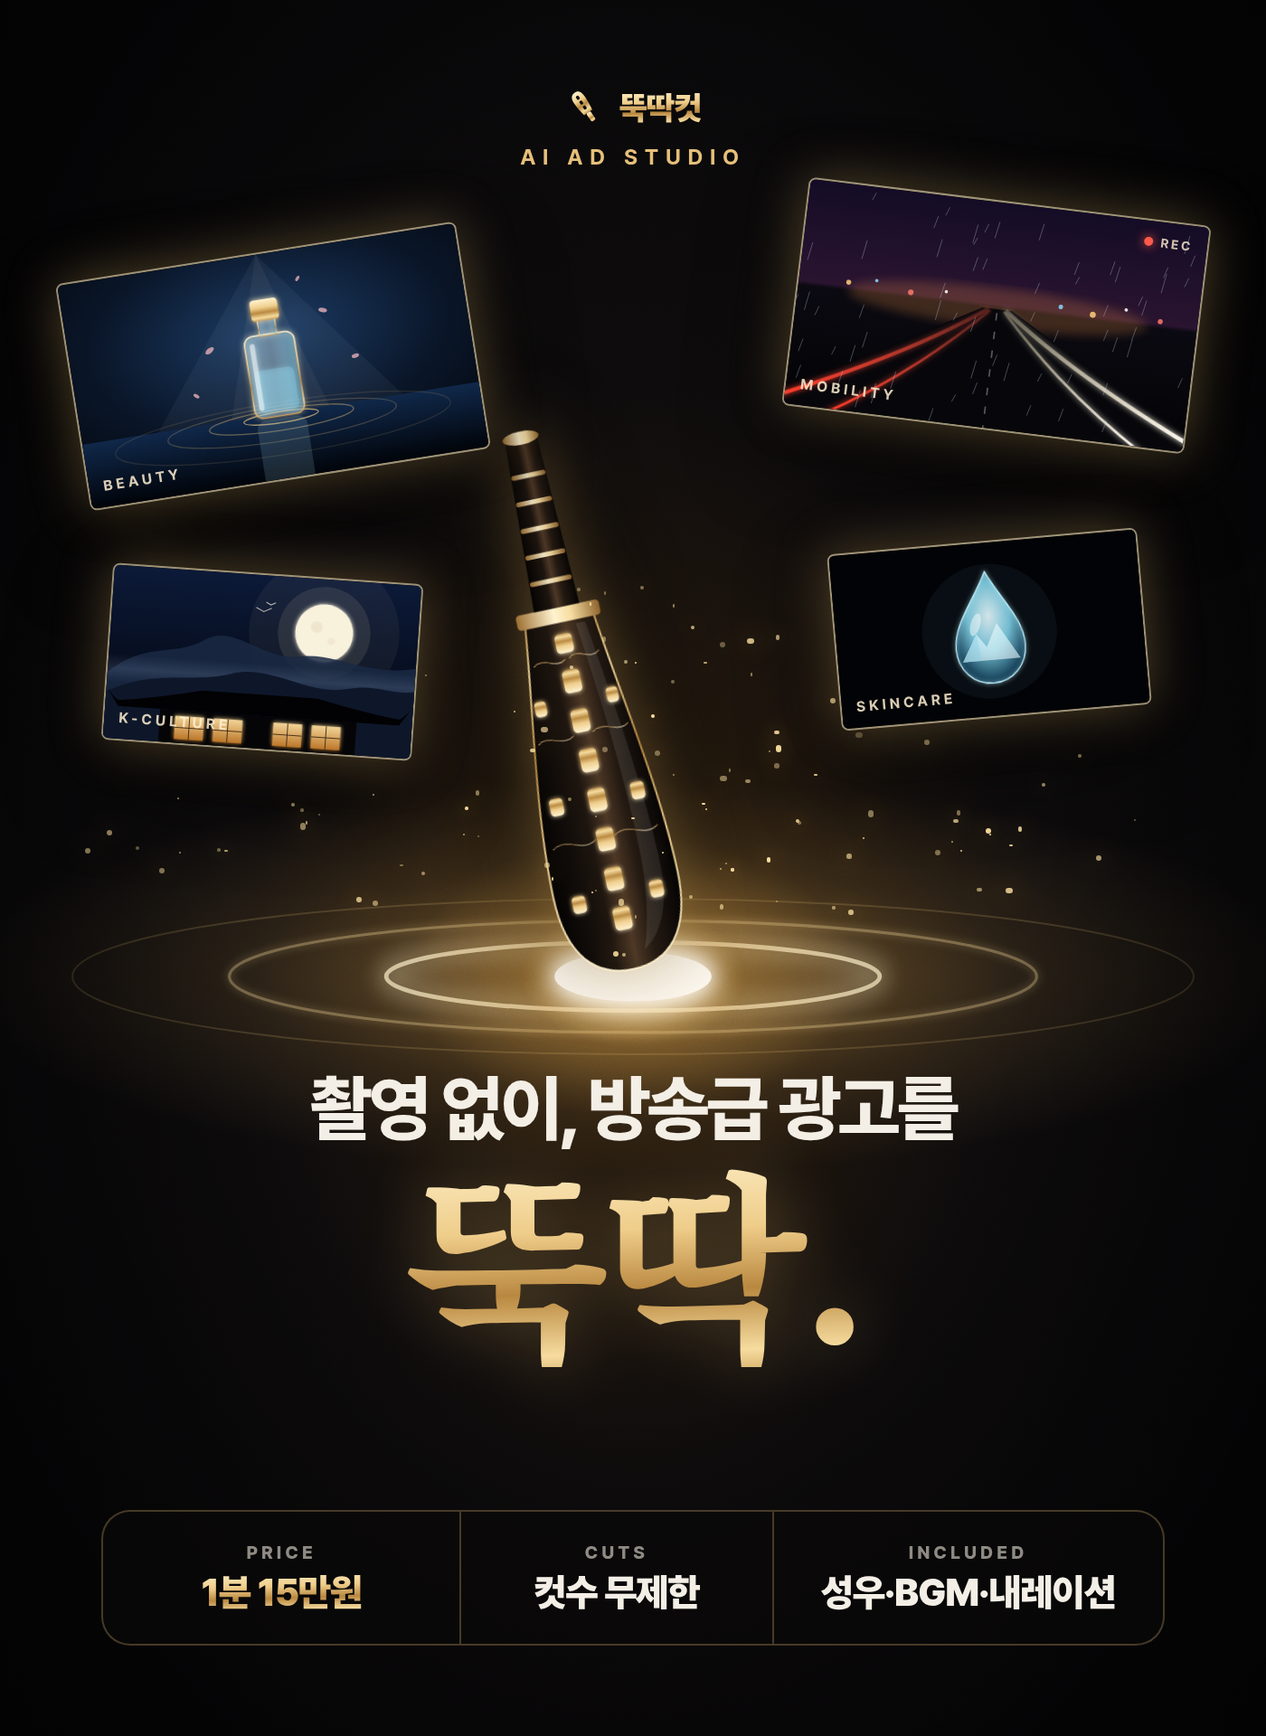
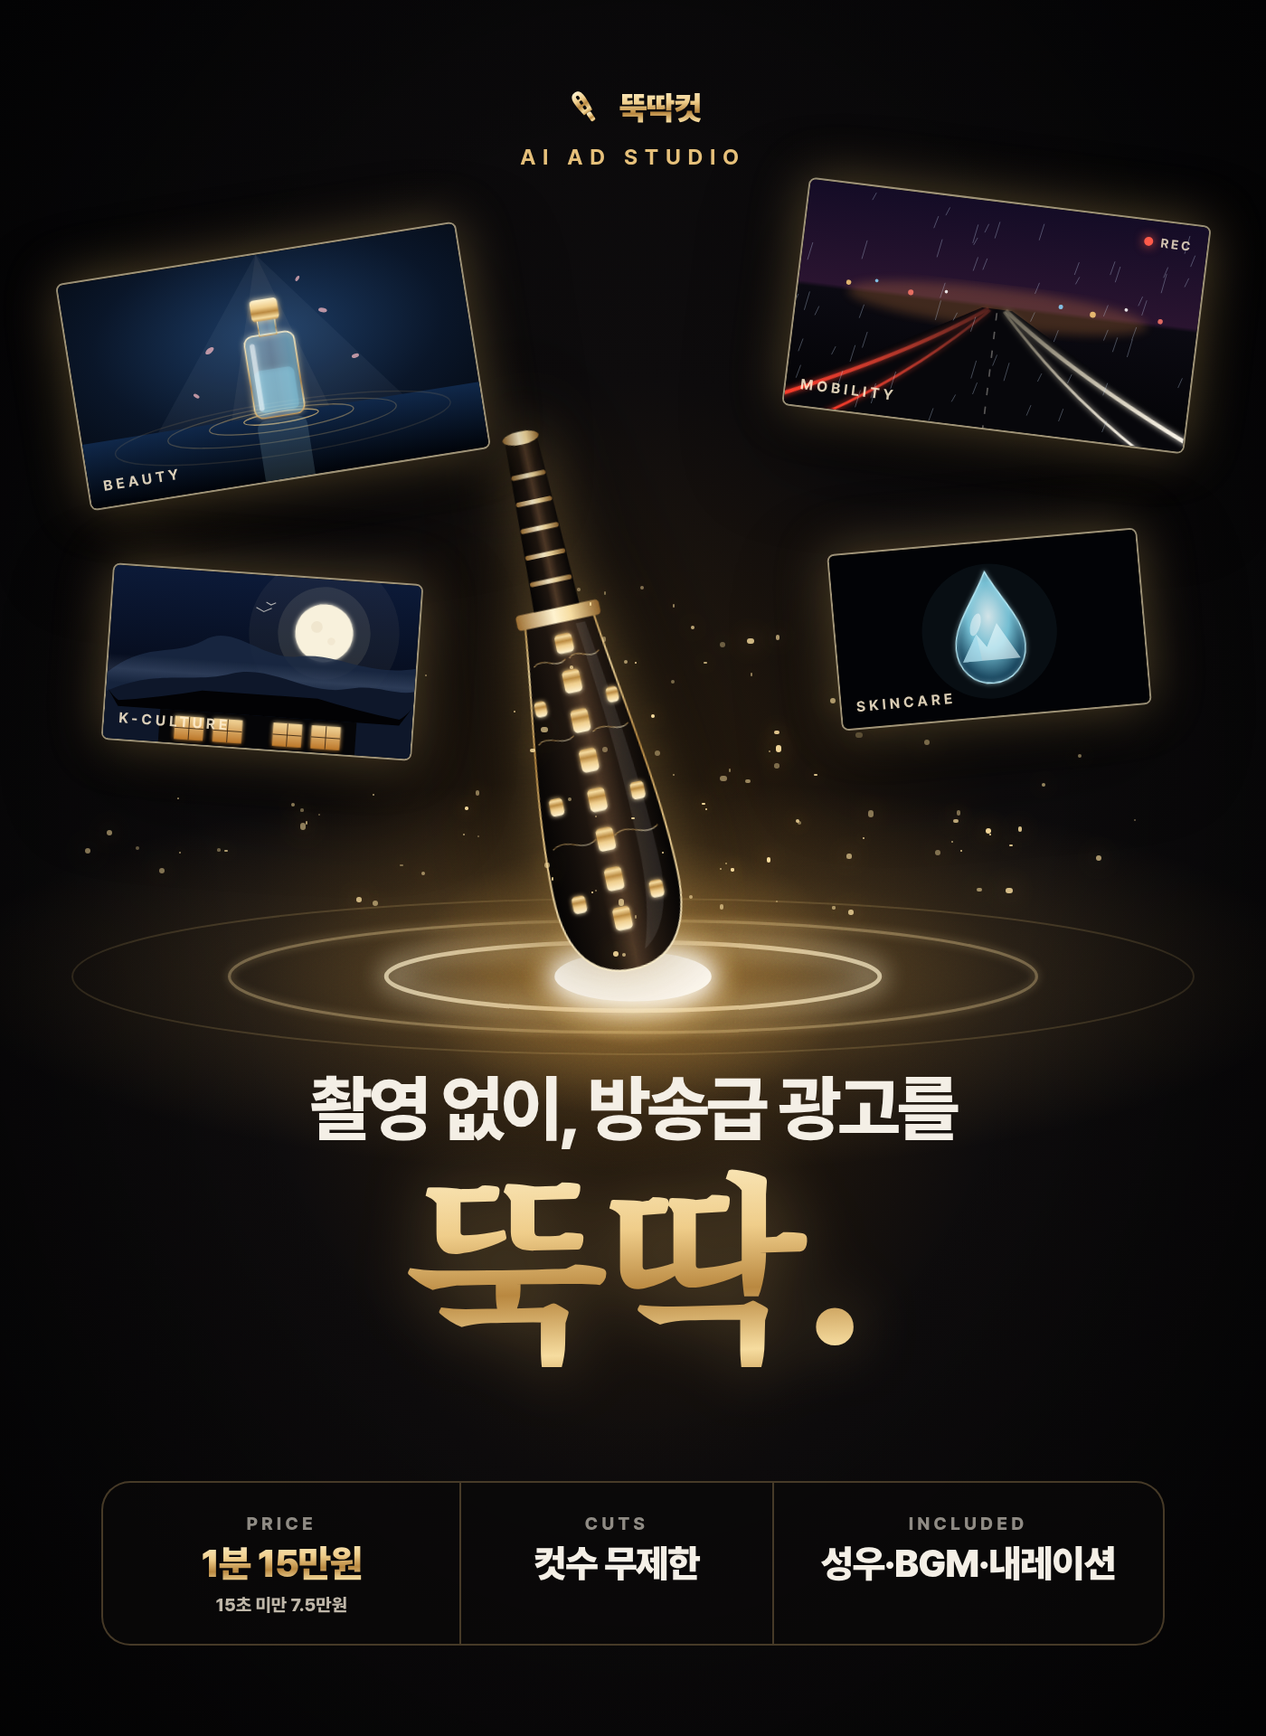
Add 15-second short-cut tier (75,000 KRW) to pricing and assets
Claude-Session: https://claude.ai/code/session_01HW1qVnBzebQH8eHGAx3Xdw

Changed region(s): [[0.645, 0.875, 0.8907, 0.9375], [0.1536, 0.875, 0.3071, 0.9375], [0.43, 0.875, 0.5529, 0.9375]]

diff --git a/kmong-studio/assets/src/index.html b/kmong-studio/assets/src/index.html
@@ -59,17 +59,17 @@
 .bank .eq { font-size: 13px; font-weight: 900; text-align: right; }
 
 /* packages thumb */
-#thumb-packages .cols { position: absolute; left: 40px; right: 40px; top: 104px; display: flex; gap: 10px; }
-#thumb-packages .col { flex: 1; border-radius: 16px; padding: 20px 16px 16px; border: 1px solid rgba(255,255,255,.1); background: rgba(255,255,255,.035); position: relative; }
+#thumb-packages .cols { position: absolute; left: 40px; right: 40px; top: 100px; display: flex; gap: 8px; }
+#thumb-packages .col { flex: 1; border-radius: 14px; padding: 18px 12px 14px; border: 1px solid rgba(255,255,255,.1); background: rgba(255,255,255,.035); position: relative; }
 #thumb-packages .col.best { border: 1.5px solid var(--gold2); background: linear-gradient(180deg, rgba(230,192,122,.17), rgba(230,192,122,.03)); box-shadow: 0 0 40px rgba(230,192,122,.18); }
 #thumb-packages .badge { position: absolute; top: -10px; left: 50%; transform: translateX(-50%); font-size: 9.5px; font-weight: 900; letter-spacing: .2em; color: #1a1206; background: var(--gold-grad); padding: 4px 10px; border-radius: 999px; }
-#thumb-packages .mn { font-size: 17px; font-weight: 900; }
-#thumb-packages .pr { font-size: 56px; line-height: 1; margin-top: 6px; letter-spacing: -.03em; }
-#thumb-packages .pr small { font-family: Pretendard; font-size: 15px; font-weight: 800; color: #eee6d7; margin-left: 2px; }
-#thumb-packages .split { font-size: 13px; color: var(--gold1); font-weight: 700; margin-top: 10px; line-height: 1.5; min-height: 34px; }
-#thumb-packages ul { list-style: none; font-size: 13px; line-height: 2; color: #c9c2b6; font-weight: 500; margin-top: 8px; border-top: 1px solid rgba(255,255,255,.08); padding-top: 8px; }
+#thumb-packages .mn { font-size: 16px; font-weight: 900; }
+#thumb-packages .pr { font-size: 44px; line-height: 1; margin-top: 6px; letter-spacing: -.03em; }
+#thumb-packages .pr small { font-family: Pretendard; font-size: 13px; font-weight: 800; color: #eee6d7; margin-left: 2px; }
+#thumb-packages .split { font-size: 12px; color: var(--gold1); font-weight: 700; margin-top: 10px; line-height: 1.5; min-height: 34px; }
+#thumb-packages ul { list-style: none; font-size: 11.5px; line-height: 1.95; white-space: nowrap; color: #c9c2b6; font-weight: 500; margin-top: 8px; border-top: 1px solid rgba(255,255,255,.08); padding-top: 8px; }
 #thumb-packages li::before { content: "—"; color: var(--gold2); margin-right: 5px; }
-#thumb-packages .foot { position: absolute; left: 40px; right: 40px; bottom: 40px; display: flex; gap: 6px; justify-content: center; }
+#thumb-packages .foot { position: absolute; left: 40px; right: 40px; bottom: 62px; display: flex; gap: 6px; justify-content: center; }
 #thumb-packages .foot span { font-size: 11px; font-weight: 800; padding: 6px 10px; border-radius: 8px; border: 1px solid var(--line); color: var(--gold1); background: rgba(230,192,122,.06); }
 
 /* process thumb */
@@ -124,12 +124,12 @@
 .poster .cap .m { font-size: 12px; color: #cfc8bb; margin-top: 6px; font-weight: 600; }
 .poster::after { content: ""; position: absolute; inset: 0; background: linear-gradient(180deg, transparent 45%, rgba(0,0,0,.85)); z-index: 2; }
 
-.pkg { border-radius: 20px; padding: 24px 26px; border: 1px solid rgba(255,255,255,.09); background: rgba(255,255,255,.03); display: grid; grid-template-columns: 170px 1fr; gap: 22px; position: relative; }
+.pkg { border-radius: 18px; padding: 20px 26px; border: 1px solid rgba(255,255,255,.09); background: rgba(255,255,255,.03); display: grid; grid-template-columns: 170px 1fr; gap: 22px; position: relative; }
 .pkg.best { border: 1.5px solid var(--gold2); background: linear-gradient(135deg, rgba(230,192,122,.16), rgba(230,192,122,.02)); box-shadow: 0 0 60px rgba(230,192,122,.14); }
 .pkg .badge { position: absolute; top: -12px; left: 26px; font-size: 11px; font-weight: 900; letter-spacing: .2em; color: #1a1206; background: var(--gold-grad); padding: 5px 12px; border-radius: 999px; }
 .pkg .nm { font-size: 10px; letter-spacing: .18em; font-weight: 800; color: var(--gold2); }
 .pkg .mn { font-size: 26px; font-weight: 900; margin-top: 6px; letter-spacing: -.03em; }
-.pkg .pr { font-family: "Noto Serif KR"; font-weight: 900; font-size: 40px; line-height: 1.05; margin-top: 2px; letter-spacing: -.03em; }
+.pkg .pr { font-family: "Noto Serif KR"; font-weight: 900; font-size: 36px; line-height: 1.05; margin-top: 2px; letter-spacing: -.03em; }
 .pkg .pr small { font-family: Pretendard; font-size: 15px; font-weight: 700; color: #e9e2d4; margin-left: 2px; }
 .pkg .meta { font-size: 12.5px; color: var(--mute); margin-top: 8px; font-weight: 600; line-height: 1.6; }
 .pkg .split { font-size: 15.5px; font-weight: 800; letter-spacing: -.02em; margin-bottom: 10px; }
@@ -177,6 +177,7 @@ table.opt small { color: var(--mute); font-weight: 500; margin-left: 6px; font-s
     <div class="pill"><i></i>AI 광고 영상 · 촬영 없이</div>
     <div class="l1">방송급 AI 광고,</div>
     <div class="price"><span class="min">1분</span><span class="won num gold glow">15<small>만원</small></span></div>
+    <div style="margin-top:14px;display:inline-flex;align-items:center;gap:8px;font-size:14px;font-weight:800;padding:7px 12px;border-radius:9px;border:1px solid var(--line);background:rgba(230,192,122,.08)"><span class="gold">숏컷</span>15초 미만 <span class="gold">7.5만원</span>부터</div>
   </div>
   <div class="chips">
     <span class="chip"><b>✓</b>컷수 무제한</span>
@@ -197,17 +198,20 @@ table.opt small { color: var(--mute); font-weight: 500; margin-left: 6px; font-s
 
 <!-- ================= THUMB PACKAGES ================= -->
 <section class="board thumb st grain" id="thumb-packages">
-  <div class="top"><div class="logo"><svg><use href="#mark"/></svg><span class="gold">뚝딱컷</span></div><span class="eyebrow">1분 = 15만원</span></div>
+  <div class="top"><div class="logo"><svg><use href="#mark"/></svg><span class="gold">뚝딱컷</span></div><span class="eyebrow">15초 미만 7.5만 · 1분 15만</span></div>
   <div class="cols">
-    <div class="col"><div class="mn">1분 컷</div><div class="pr num gold">15<small>만원</small></div>
-      <div class="split">30초 × 2편<br>또는 15초 × 4편</div>
-      <ul><li>수정 2회</li><li>3일 납품</li><li>무료 시안 1컷</li></ul></div>
-    <div class="col best"><span class="badge">BEST</span><div class="mn">2분 컷</div><div class="pr num gold">30<small>만원</small></div>
-      <div class="split">1분 본편 + 30초<br>+ 15초 × 2편</div>
-      <ul><li>수정 3회</li><li>5일 납품</li><li>편마다 비율 선택</li></ul></div>
+    <div class="col"><div class="mn">숏컷</div><div class="pr num gold">7.5<small>만원</small></div>
+      <div class="split">15초 미만<br>1편</div>
+      <ul><li>수정 1회</li><li>2일 납품</li><li>릴스·범퍼</li></ul></div>
+    <div class="col best"><span class="badge">BEST</span><div class="mn">1분 컷</div><div class="pr num gold">15<small>만원</small></div>
+      <div class="split">30초 × 2편<br>15초 × 4편</div>
+      <ul><li>수정 2회</li><li>3일 납품</li><li>시안 1컷</li></ul></div>
+    <div class="col"><div class="mn">2분 컷</div><div class="pr num gold">30<small>만원</small></div>
+      <div class="split">최대 8편<br>편별 훅 설계</div>
+      <ul><li>수정 3회</li><li>5일 납품</li><li>4K · 시안 2컷</li></ul></div>
     <div class="col"><div class="mn">3분 컷</div><div class="pr num gold">45<small>만원</small></div>
-      <div class="split">한 달치 광고 소재<br>최대 12편</div>
-      <ul><li>수정 3회 · 7일</li><li>편별 훅 설계</li><li>4K · 시안 2컷</li></ul></div>
+      <div class="split">한 달치 소재<br>최대 12편</div>
+      <ul><li>2분 + 추가 1분</li><li>7일 납품</li><li>4K · 시안 2컷</li></ul></div>
   </div>
   <div class="foot"><span>전 패키지 컷수 무제한</span><span>AI 성우·내레이션</span><span>BGM·효과음·자막</span></div>
 </section>
@@ -241,7 +245,7 @@ table.opt small { color: var(--mute); font-weight: 500; margin-left: 6px; font-s
     <div class="l3 serif gold glow">뚝딱.</div>
   </div>
   <div class="strip">
-    <div><small>PRICE</small><b><span class="gold">1분 15만원</span></b></div>
+    <div><small>PRICE</small><b><span class="gold">1분 15만원</span></b><small style="letter-spacing:0;margin-top:4px;color:#bfb7a9">15초 미만 7.5만원</small></div>
     <div><small>CUTS</small><b>컷수 무제한</b></div>
     <div><small>INCLUDED</small><b>성우·BGM·내레이션</b></div>
   </div>
@@ -323,13 +327,15 @@ table.opt small { color: var(--mute); font-weight: 500; margin-left: 6px; font-s
 <section class="board detail sec grain" id="d07" style="background:linear-gradient(180deg,#050507,#0d0b08)">
   <div class="eyebrow">Packages</div>
   <div class="h2" style="margin-top:14px">필요한 만큼, <span class="gold">분</span>으로 고르세요.</div>
-  <div style="display:flex;flex-direction:column;gap:16px;margin-top:36px">
-    <div class="pkg"><div><div class="nm">STANDARD</div><div class="mn">1분 컷</div><div class="pr gold">15<small>만원</small></div><div class="meta">3일 · 수정 2회</div></div>
-      <div><div class="split">30초 × 2편 <span>또는</span> 15초 × 4편</div><ul><li>컷수 무제한</li><li>AI 성우 · 대본</li><li>BGM · 효과음</li><li>자막 · 색보정</li><li>16:9 / 9:16 택1</li><li>무료 시안 1컷</li></ul></div></div>
-    <div class="pkg best"><span class="badge">MOST CHOSEN</span><div><div class="nm">DELUXE</div><div class="mn">2분 컷</div><div class="pr gold">30<small>만원</small></div><div class="meta">5일 · 수정 3회</div></div>
-      <div><div class="split">1분 본편 + 30초 + 15초 × 2편</div><ul><li>컷수 무제한</li><li>AI 성우 · 대본</li><li>BGM · 효과음</li><li>자막 · 색보정</li><li>편마다 비율 선택</li><li>최대 8편 분할</li></ul></div></div>
-    <div class="pkg"><div><div class="nm">PREMIUM</div><div class="mn">3분 컷</div><div class="pr gold">45<small>만원</small></div><div class="meta">7일 · 수정 3회</div></div>
-      <div><div class="split">한 달치 광고 소재 <span>최대 12편</span></div><ul><li>컷수 무제한</li><li>AI 성우 · 대본</li><li>편별 훅(첫 3초) 설계</li><li>4K 업스케일</li><li>1:1 비율 포함</li><li>무료 시안 2컷</li></ul></div></div>
+  <div style="display:flex;flex-direction:column;gap:14px;margin-top:32px">
+    <div class="pkg"><div><div class="nm">STANDARD</div><div class="mn">숏컷</div><div class="pr gold">7.5<small>만원</small></div><div class="meta">2일 · 수정 1회</div></div>
+      <div><div class="split">15초 미만 <span>1편</span> · 릴스·쇼츠·범퍼 광고</div><ul><li>컷수 무제한</li><li>AI 성우 · 대본</li><li>BGM · 효과음 · 자막</li><li>무료 시안 1컷</li></ul></div></div>
+    <div class="pkg best"><span class="badge">MOST CHOSEN</span><div><div class="nm">DELUXE</div><div class="mn">1분 컷</div><div class="pr gold">15<small>만원</small></div><div class="meta">3일 · 수정 2회</div></div>
+      <div><div class="split">30초 × 2편 <span>또는</span> 15초 × 4편</div><ul><li>컷수 무제한</li><li>AI 성우 · 대본</li><li>BGM · 효과음 · 자막</li><li>16:9 / 9:16 택1</li><li>최대 4편 분할</li><li>무료 시안 1컷</li></ul></div></div>
+    <div class="pkg"><div><div class="nm">PREMIUM</div><div class="mn">2분 컷</div><div class="pr gold">30<small>만원</small></div><div class="meta">5일 · 수정 3회</div></div>
+      <div><div class="split">1분 본편 + 30초 + 15초 × 2편</div><ul><li>최대 8편 분할</li><li>편별 훅(첫 3초) 설계</li><li>편마다 비율 선택</li><li>4K · 무료 시안 2컷</li></ul></div></div>
+    <div class="pkg" style="padding:18px 26px"><div><div class="nm">+ 추가 1분 옵션</div><div class="mn">3분 컷</div><div class="pr gold">45<small>만원</small></div></div>
+      <div><div class="split">한 달치 광고 소재 <span>최대 12편</span></div><ul><li>2분 컷 + 추가 1분</li><li>7일 · PREMIUM 혜택 동일</li></ul></div></div>
   </div>
 </section>
 
@@ -358,7 +364,7 @@ table.opt small { color: var(--mute); font-weight: 500; margin-left: 6px; font-s
     <div class="row"><div class="dot">2</div><div><div class="t">결제 · 5분 질문지</div><div class="d">몇 편으로 나눌지, 어떤 목소리가 좋은지 정합니다.</div></div></div>
     <div class="row g"><div class="dot">✓</div><div><div class="t">대본 · 콘티 컨펌</div><div class="d">내레이션 대본과 장면 구성을 먼저 확인받습니다.</div></div></div>
     <div class="row"><div class="dot">4</div><div><div class="t">제작 <em>컷 무제한</em></div><div class="d">영상 · AI 성우 · BGM · 효과음 · 자막 · 색보정.</div></div></div>
-    <div class="row"><div class="dot">5</div><div><div class="t gold">납품 · 수정</div><div class="d">1분 3일 · 2분 5일 · 3분 7일. 패키지별 수정 횟수 안에서 다듬습니다.</div></div></div>
+    <div class="row"><div class="dot">5</div><div><div class="t gold">납품 · 수정</div><div class="d">숏컷 2일 · 1분 3일 · 2분 5일 · 3분 7일. 패키지별 수정 횟수 안에서 다듬습니다.</div></div></div>
   </div>
 </section>
 
@@ -367,7 +373,7 @@ table.opt small { color: var(--mute); font-weight: 500; margin-left: 6px; font-s
   <div class="eyebrow">Options</div>
   <div class="h2" style="margin-top:14px">더 필요하면,<br>필요한 것만 더하세요.</div>
   <table class="opt">
-    <tr><td>추가 1분 <small>분당 같은 단가</small></td><td>+150,000원</td></tr>
+    <tr><td>추가 1분 <small>2분 컷 + 1분 = 3분 45만원</small></td><td>+150,000원</td></tr>
     <tr><td>추가 30초</td><td>+75,000원</td></tr>
     <tr><td>실제 성우 녹음 <small>섭외·녹음 실비</small></td><td>별도 견적</td></tr>
     <tr><td>비율 변환 리컷 <small>9:16 ↔ 16:9 ↔ 1:1</small></td><td>+30,000원 / 편</td></tr>
@@ -388,7 +394,7 @@ table.opt small { color: var(--mute); font-weight: 500; margin-left: 6px; font-s
     <div style="position:absolute;left:0;right:0;top:72px;z-index:5">
       <div style="font-size:20px;color:#d8d1c5;font-weight:600">떠오르는 게 한 줄뿐이어도 괜찮습니다.</div>
       <div class="h2" style="font-size:56px;margin-top:14px;line-height:1.18">그 한 줄,<br><span class="gold serif glow" style="font-size:78px">뚝딱</span> 광고로.</div>
-      <div style="margin-top:18px;font-size:18px;font-weight:800;color:#efe8da"><span class="gold">1분 15만원</span> · 컷수 무제한 · 성우·BGM 포함</div>
+      <div style="margin-top:18px;font-size:18px;font-weight:800;color:#efe8da"><span class="gold">숏컷 7.5만원부터</span> · 1분 15만원 · 성우·BGM 포함</div>
       <div style="margin-top:24px;display:inline-block;font-size:17px;font-weight:800;color:#1a1206;background:var(--gold-grad);padding:15px 30px;border-radius:999px;box-shadow:0 0 40px rgba(230,192,122,.35)">무료 시안 1컷 받아보기</div>
     </div>
     <div style="position:absolute;left:0;right:0;bottom:44px;z-index:5"><div class="logo" style="justify-content:center;font-size:18px"><svg><use href="#mark"/></svg><span class="gold">뚝딱컷</span></div></div>

diff --git a/kmong-studio/05_제작_파이프라인.md b/kmong-studio/05_제작_파이프라인.md
@@ -17,13 +17,13 @@
 
 ## 2. 패키지별 일정 (분당 요금제)
 
-| 단계 | 1분 · 3일 | 2분 · 5일 | 3분 · 7일 |
-|---|---|---|---|
-| 질문지 → 대본·콘티 (GATE 1) | D1 | D1 | D1–2 |
-| 바이블·스타일프레임 (GATE 2는 무료 시안으로 대체 가능) | D1 | D2 | D3 |
-| 생성 (컷당 재생성 4회 이내) | D2 | D3–4 | D4–5 |
-| 편집·성우·BGM·자막 → 1차 전달 | D3 | D5 | D6 |
-| 수정 반영·최종 | 수정 기간 별도 | | D7 |
+| 단계 | 숏컷 · 2일 | 1분 · 3일 | 2분 · 5일 | 3분 · 7일 |
+|---|---|---|---|---|
+| 질문지 → 대본·콘티 (GATE 1) | D1 | D1 | D1 | D1–2 |
+| 바이블·스타일프레임 (GATE 2는 무료 시안으로 대체 가능) | D1 | D1 | D2 | D3 |
+| 생성 (컷당 재생성 4회 이내) | D1–2 | D2 | D3–4 | D4–5 |
+| 편집·성우·BGM·자막 → 1차 전달 | D2 | D3 | D5 | D6 |
+| 수정 반영·최종 | 수정 기간 별도 | | | D7 |
 
 > 회전율 원칙: 1분 제작 시간 3시간 이내. 고객 컨펌 대기 시간은 작업일에서 제외.
 > 대형 맞춤 견적(캠페인·방송 규격)은 이전 3단 게이트(기획→스타일프레임→러프컷)를 그대로 사용.

diff --git a/kmong-studio/07_마케팅_성장전략.md b/kmong-studio/07_마케팅_성장전략.md
@@ -3,7 +3,7 @@
 ## 0. 사업 모델이 바뀌었다
 | | 이전 (프로덕션형) | 지금 (회전율형) |
 |---|---|---|
-| 가격 | 200만 / 500만 / 1,000만원 | **1분 15만원** (1분·2분·3분) |
+| 가격 | 200만 / 500만 / 1,000만원 | **1분 15만원** + 입구 숏컷 7.5만원 (15초 미만) |
 | 이기는 방법 | 건당 큰 금액, 소수 고객 | **건수 × 속도 × 재구매** |
 | 핵심 지표 | 건당 매출 | **월 주문 수, 1분당 제작 시간, 재구매율** |
 | 대형 건 | 메인 상품 | **맞춤 견적**으로 따로 받음 (전략서·방송 규격 등) |
@@ -26,6 +26,7 @@
 - 큰 패키지를 고를 이유는 할인이 아니라 **운영 가치**로: 편별 비율 선택(DELUXE), 훅 설계·4K·시안 2컷(PREMIUM)
 - 인상 시점: 리뷰 30개 + 평점 4.9 이상 + 대기 주문이 쌓이면 **분당 18만원** 검토
 - 실제 성우는 반드시 옵션. 15만원 안에 넣지 않는다
+- **숏컷(7.5만원)은 미끼가 아니라 사다리:** 숏컷 납품 메시지에 "같은 바이블로 1분 컷 올리면 15초 3편이 더 생깁니다"를 반드시 넣어 1분 컷 전환을 유도
 
 ## 3. 첫 60일 로드맵
 | 기간 | 목표 | 액션 |

diff --git a/kmong-studio/assets/README.md b/kmong-studio/assets/README.md
@@ -5,9 +5,9 @@
 ## 썸네일 (652×488 → 파일 1304×976) — 분당 요금제
 | 파일 | 용도 |
 |---|---|
-| `thumb-main.png` | **대표 썸네일**: 1분 15만원 + 방망이 "뚝딱" |
+| `thumb-main.png` | **대표 썸네일**: 1분 15만원 + 숏컷 7.5만원부터 + 방망이 "뚝딱" |
 | `thumb-included.png` | 15만원 영수증 (포함 12가지 · 추가금 0원 도장) |
-| `thumb-packages.png` | 1분 15만 / 2분 30만 / 3분 45만 |
+| `thumb-packages.png` | 숏컷 7.5만 / 1분 15만 / 2분 30만 / 3분 45만 |
 | `thumb-bank.png` | 분 쪼개기: 1분 = 30초×2 = 15초×4 |
 | `thumb-process.png` | 무료 시안 → 대본·콘티 → 제작 → 3일 납품 |
 

diff --git a/kmong-studio/README.md b/kmong-studio/README.md
@@ -1,7 +1,7 @@
 # 뚝딱컷 — 크몽 운영 본부
 
 > **촬영 없이, 방송급 광고를 뚝딱.** — 고객님은 한 줄, 나머지는 뚝딱컷이.
-> 상품: **1분 15만원** — 1분 컷 15만 / 2분 컷 30만 / 3분 컷 45만 · 컷수 무제한 · AI 성우·내레이션·BGM 포함 · 15초 단위 분 쪼개기
+> 상품: **1분 15만원** — 숏컷(15초 미만) 7.5만 / 1분 컷 15만 / 2분 컷 30만 / 3분 컷 45만(2분 + 추가 1분) · 컷수 무제한 · AI 성우·내레이션·BGM 포함 · 15초 단위 분 쪼개기
 > 크몽 AI 영상 카테고리 입점·운영·제작·응대를 이 폴더 하나에서 관리합니다.
 
 ## 폴더 구조

diff --git a/kmong-studio/06_고객응대_스크립트.md b/kmong-studio/06_고객응대_스크립트.md
@@ -43,6 +43,7 @@ C. [컨셉명] — [한 줄 설명]
 영상 길이(분) × 150,000원이 최종 금액이고,
 컷 수 제한 없이 AI 성우 내레이션·대본·BGM·효과음·자막까지 전부 포함입니다.
 
+15초보다 짧은 영상 한 편이면 숏컷(75,000원)으로도 가능합니다.
 말씀하신 [용도]라면 [N]분 패키지로 [예: 30초 광고 2편 + 15초 숏폼 2편]처럼 나눠서 받으실 수 있어요.
 결제 전에 무료 시안 1컷을 먼저 보내드릴게요.
 ```
